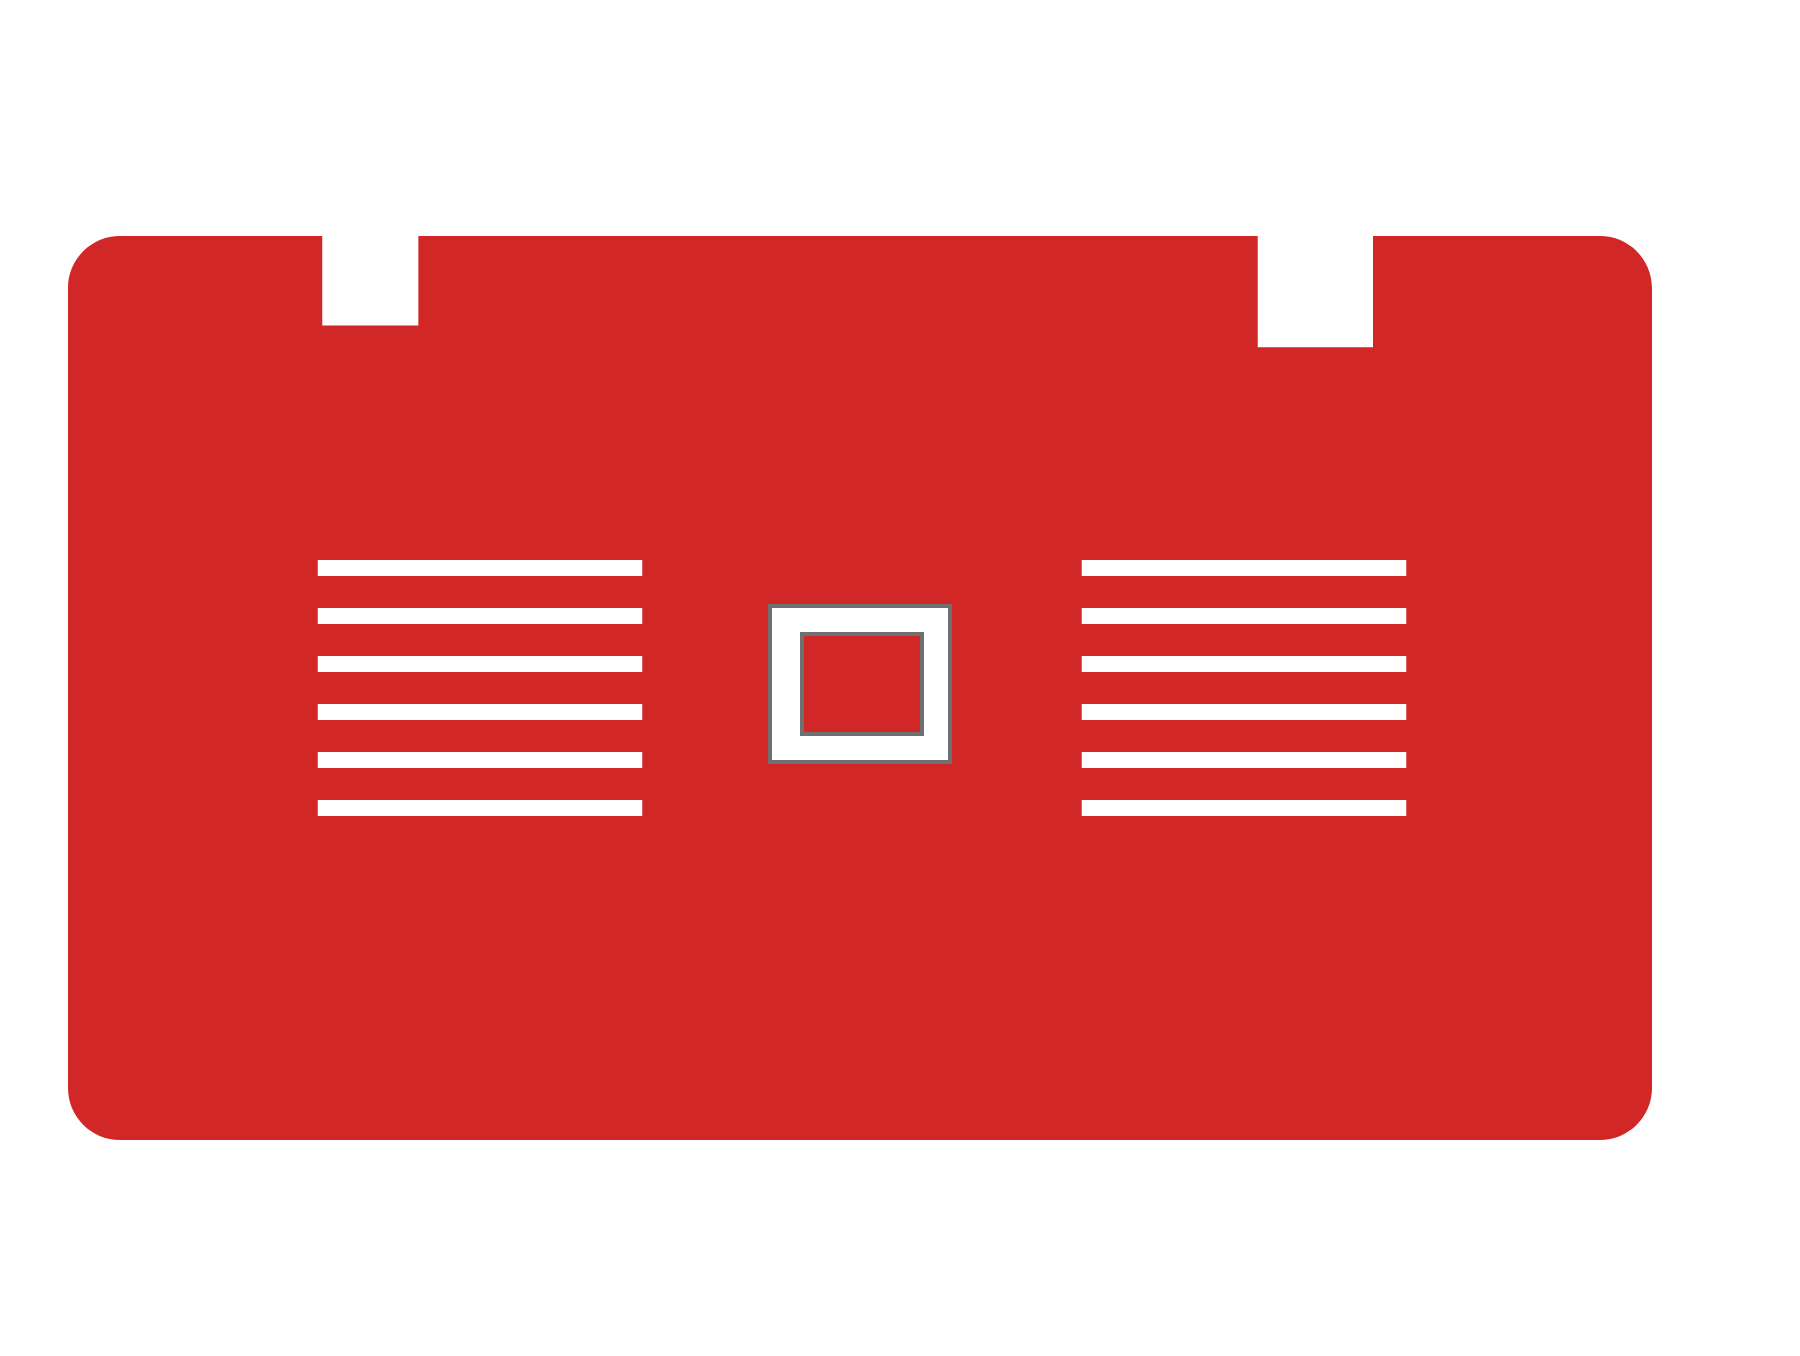
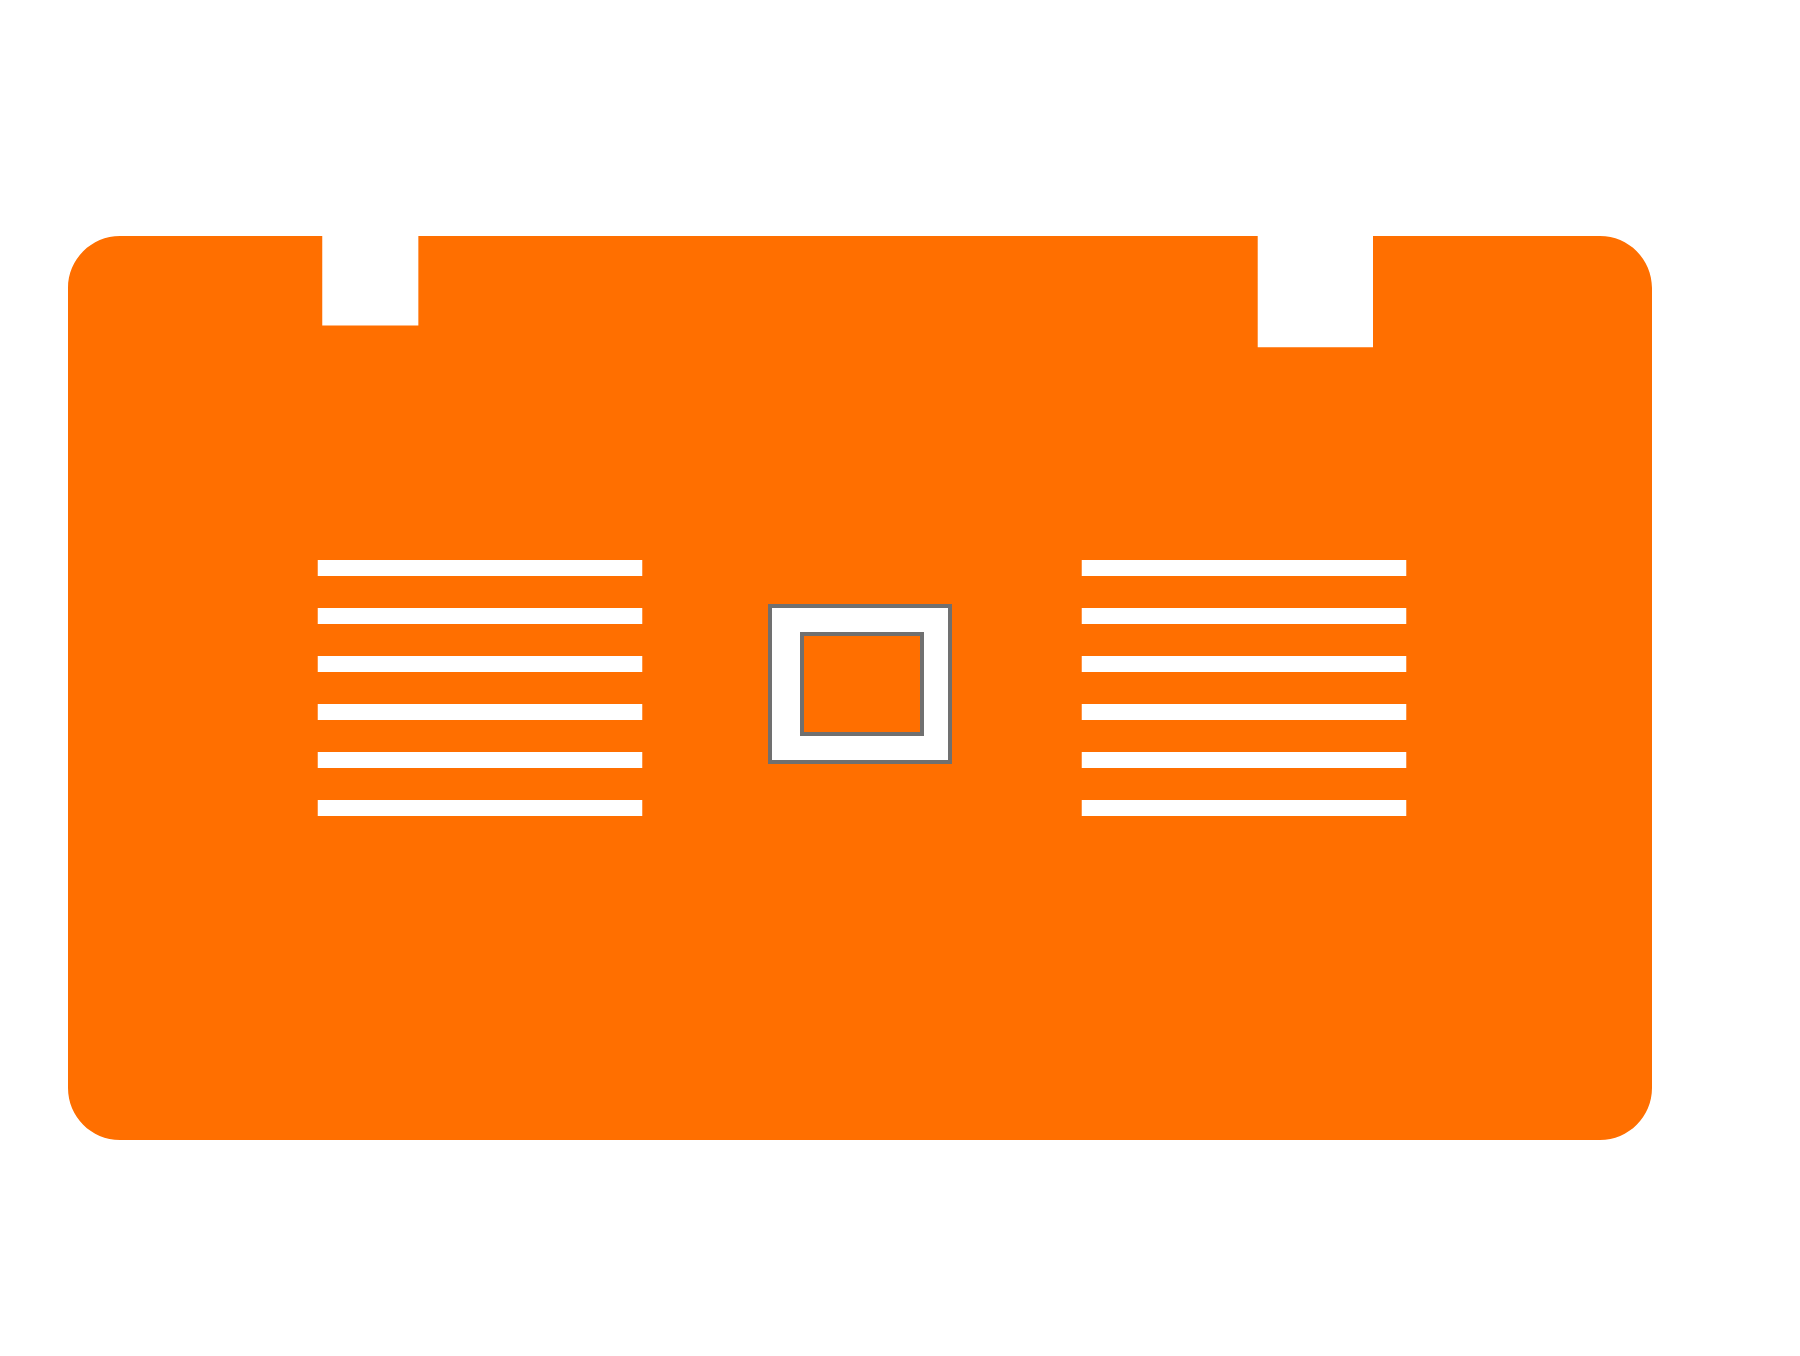
dggdg

diff --git a/index.html b/index.html
@@ -121,7 +121,7 @@
   </div>
 
   <div style="justify-content: center; align-items: center; text-align: center;" class="">
-    <button style="background-color:#D12727; color: white; margin : 50px auto 0px auto; font-size: 30px; padding: 0px 20px 0px 20px;" onclick="window.open('tel:+917398485815');"class="button floating" type="button" name="button">Book Service</button>
+    <button style="background-color:#FF8000; color: white; margin : 50px auto 0px auto; font-size: 30px; padding: 0px 20px 0px 20px;" onclick="window.open('tel:+917398485815');"class="button floating" type="button" name="button">Book Service</button>
   </div>
 
   <hr>
@@ -135,13 +135,12 @@
 
       <h1>Experience professionals</h1>
       <h6>We have one of the best experienced professionals, they can gives you what you want, get professional service with low and best price book your service now</h6>
-      <button id="about-button"style="background-color:#D12727; color: white; margin : 20px auto 0px auto; font-size: 25px; padding: 0px 20px 0px 20px;" class="button" type="button" name="button">About US</button>
+      <button id="about-button"style="background-color:#FF8000; color: white; margin : 20px auto 0px auto; font-size: 25px; padding: 0px 20px 0px 20px;" class="button" type="button" name="button">About US</button>
 
 
     </div>
 
   </div>
-
 
   <hr>
 

diff --git a/css/home.css b/css/home.css
@@ -1,6 +1,7 @@
 :root {
-  --primary-color: #FFFF00;
+  --primary-color: #FF8000;
   --secondary-color: #6A6A6A;
+  --buttons-color:#FF8000;
   --font-default: bahnschrift;
 }
 
